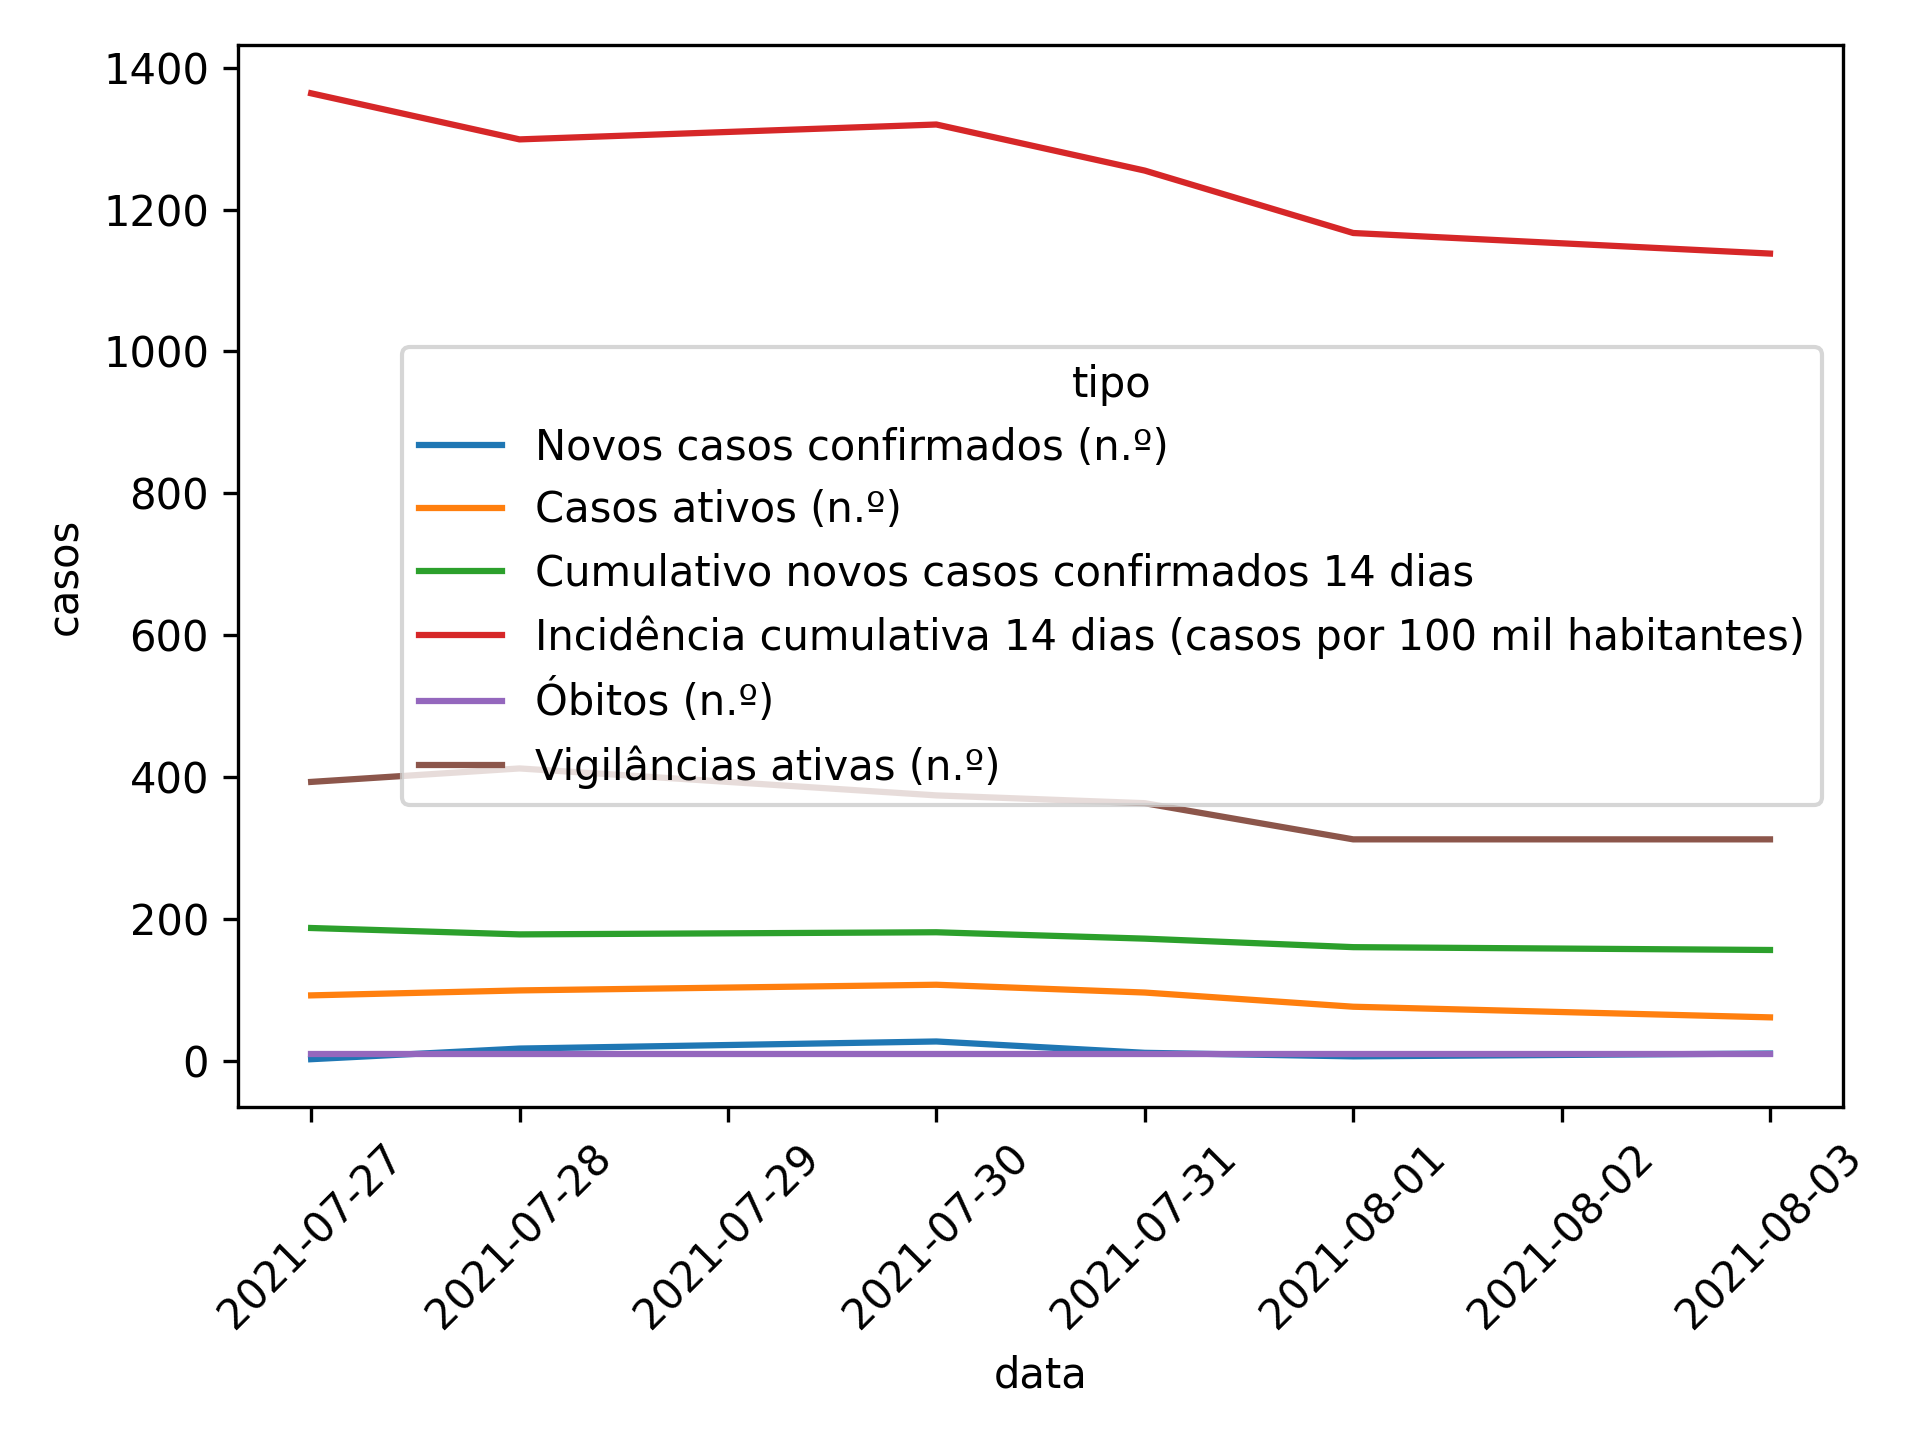
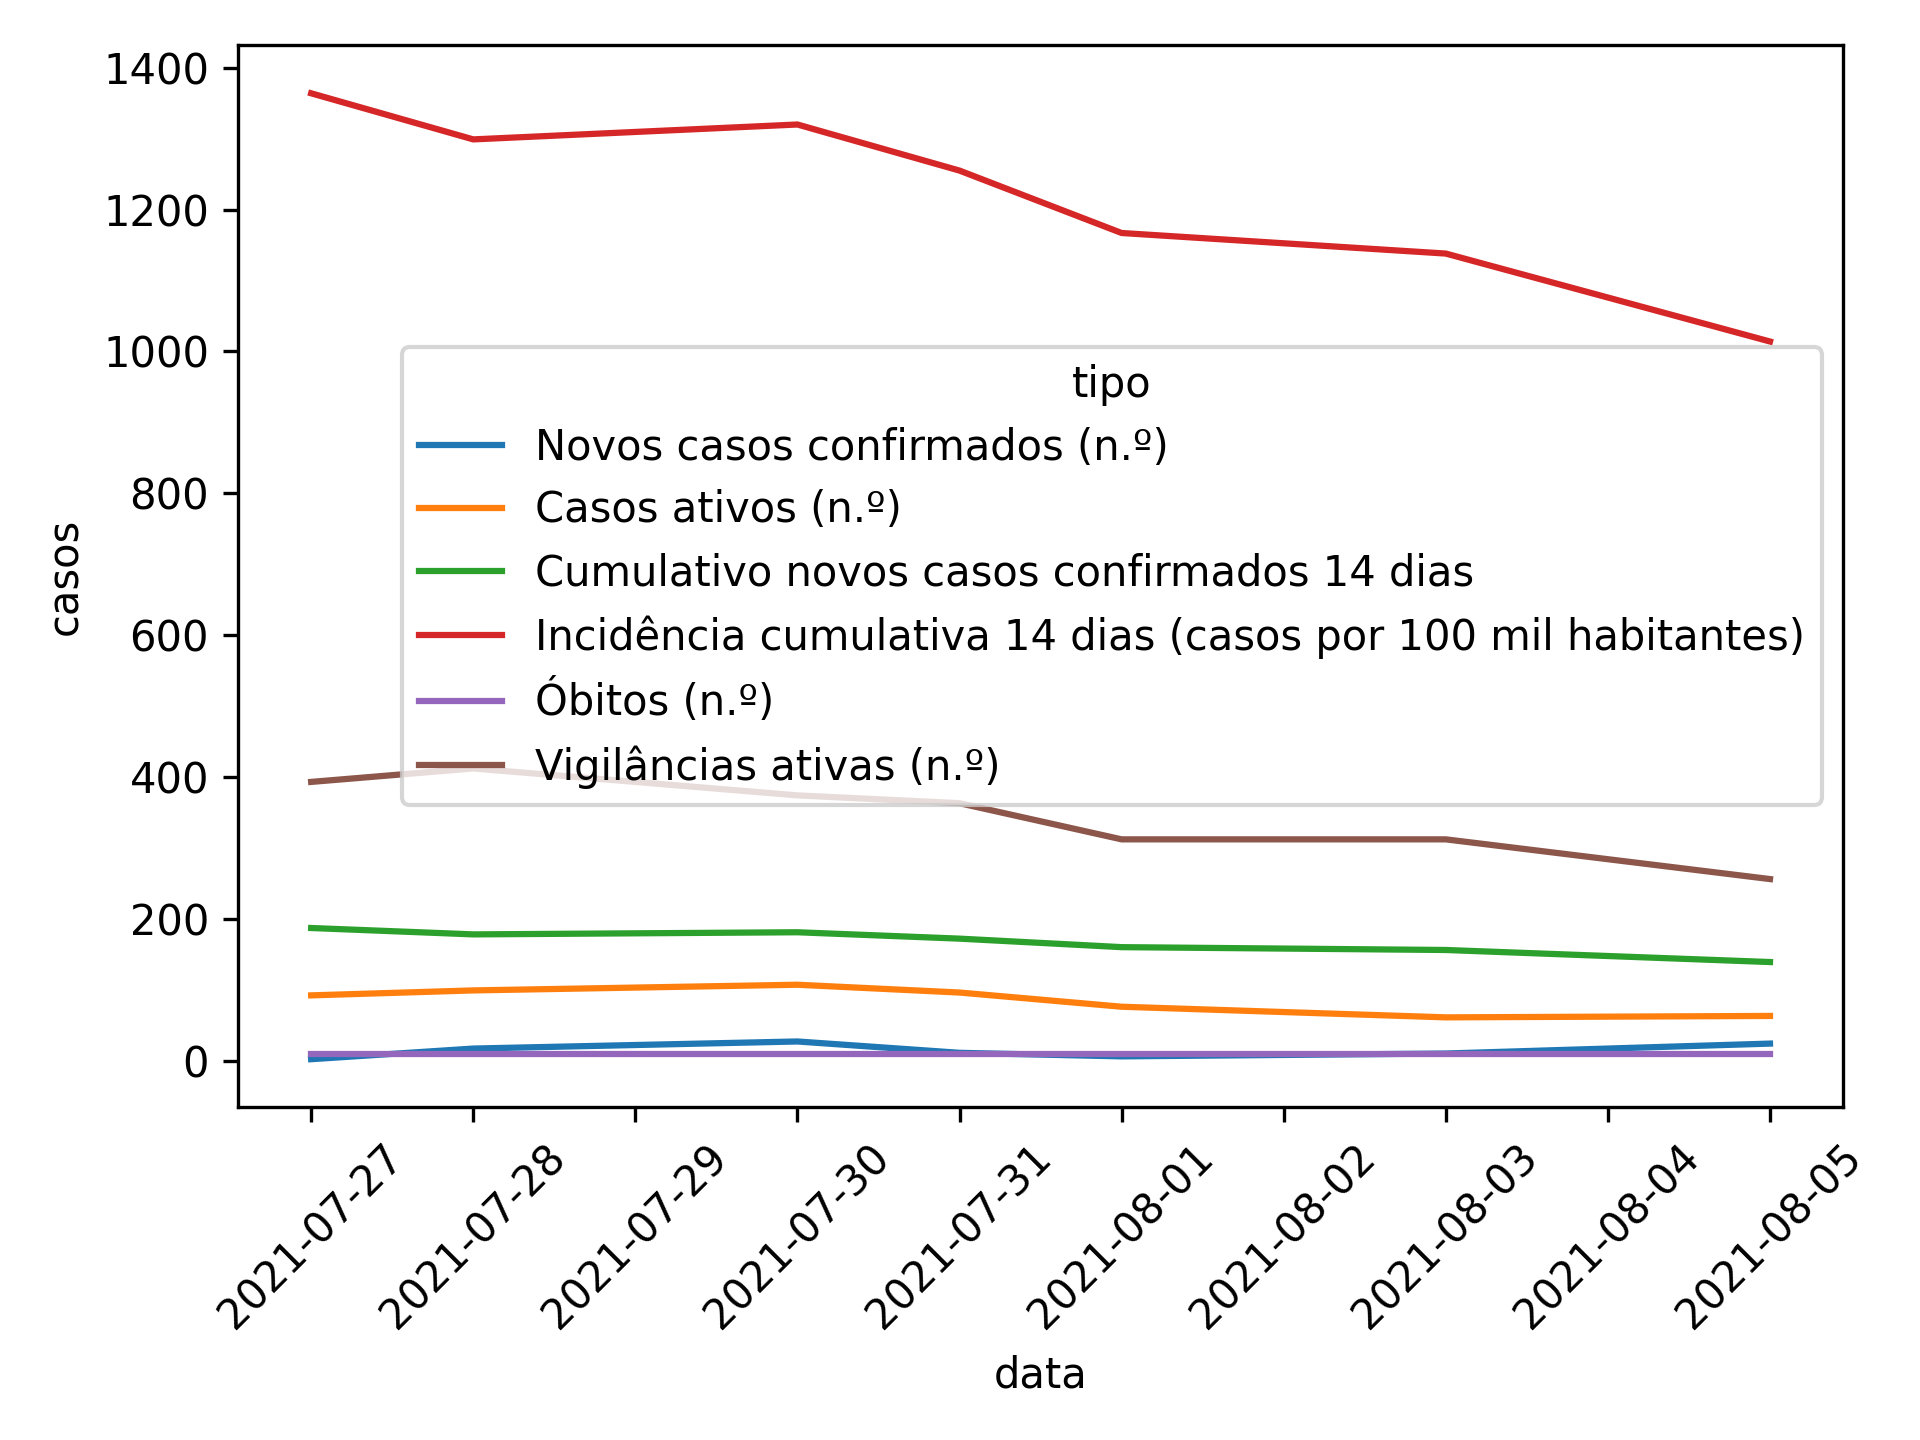
Apply automatic changes

diff --git a/README.md b/README.md
@@ -12,3 +12,4 @@
 | 31-07-2021 |                              11 |                   96 |                                          172 |                                                           1255 |             10 |                        363 |
 | 01-08-2021 |                               6 |                   76 |                                          160 |                                                           1167 |             10 |                        312 |
 | 03-08-2021 |                              10 |                   61 |                                          156 |                                                           1138 |             10 |                        312 |
+| 05-08-2021 |                              24 |                   63 |                                          139 |                                                           1014 |             10 |                        256 |
